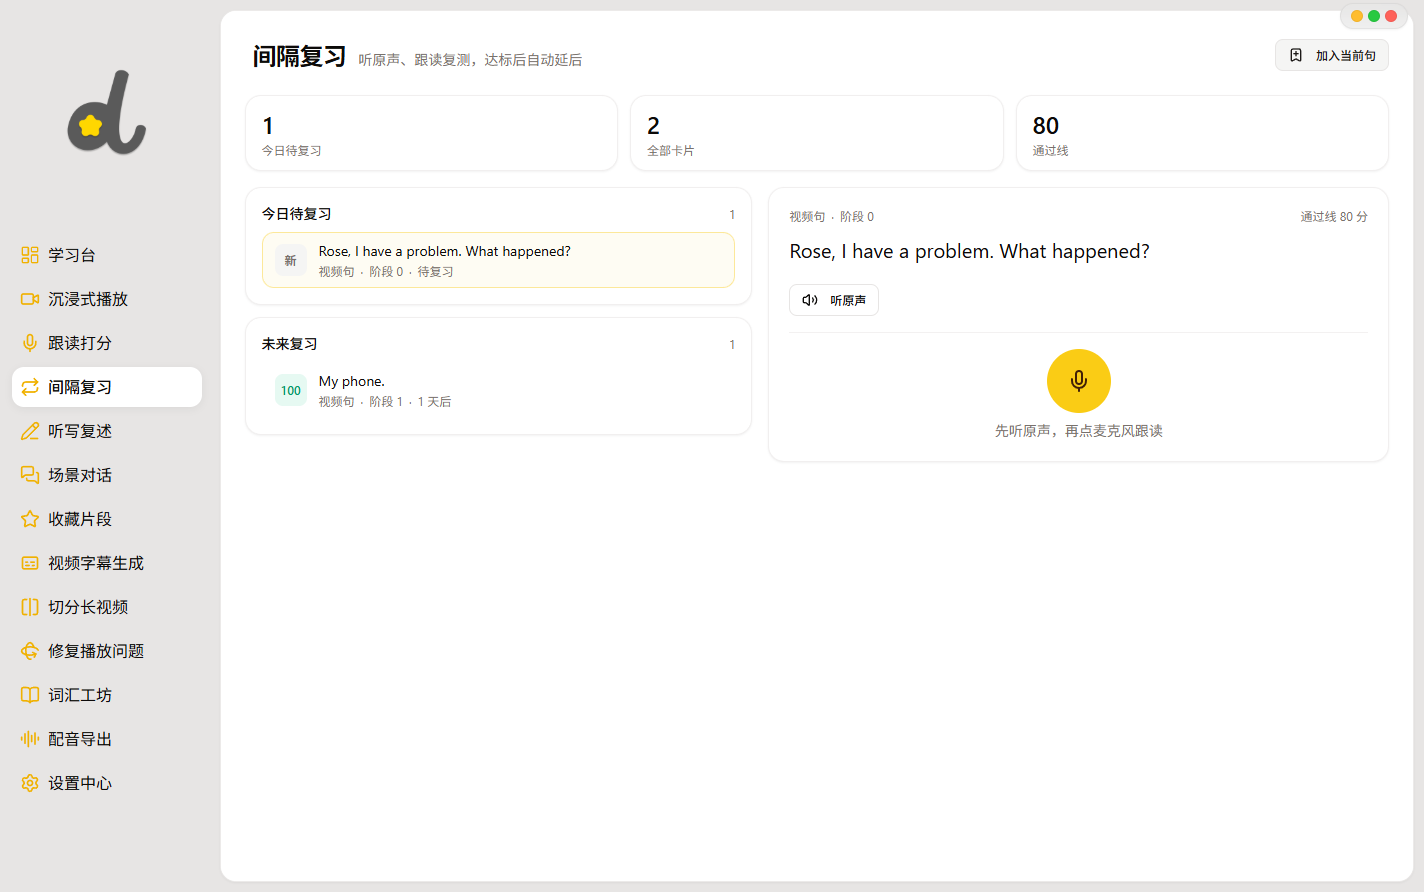
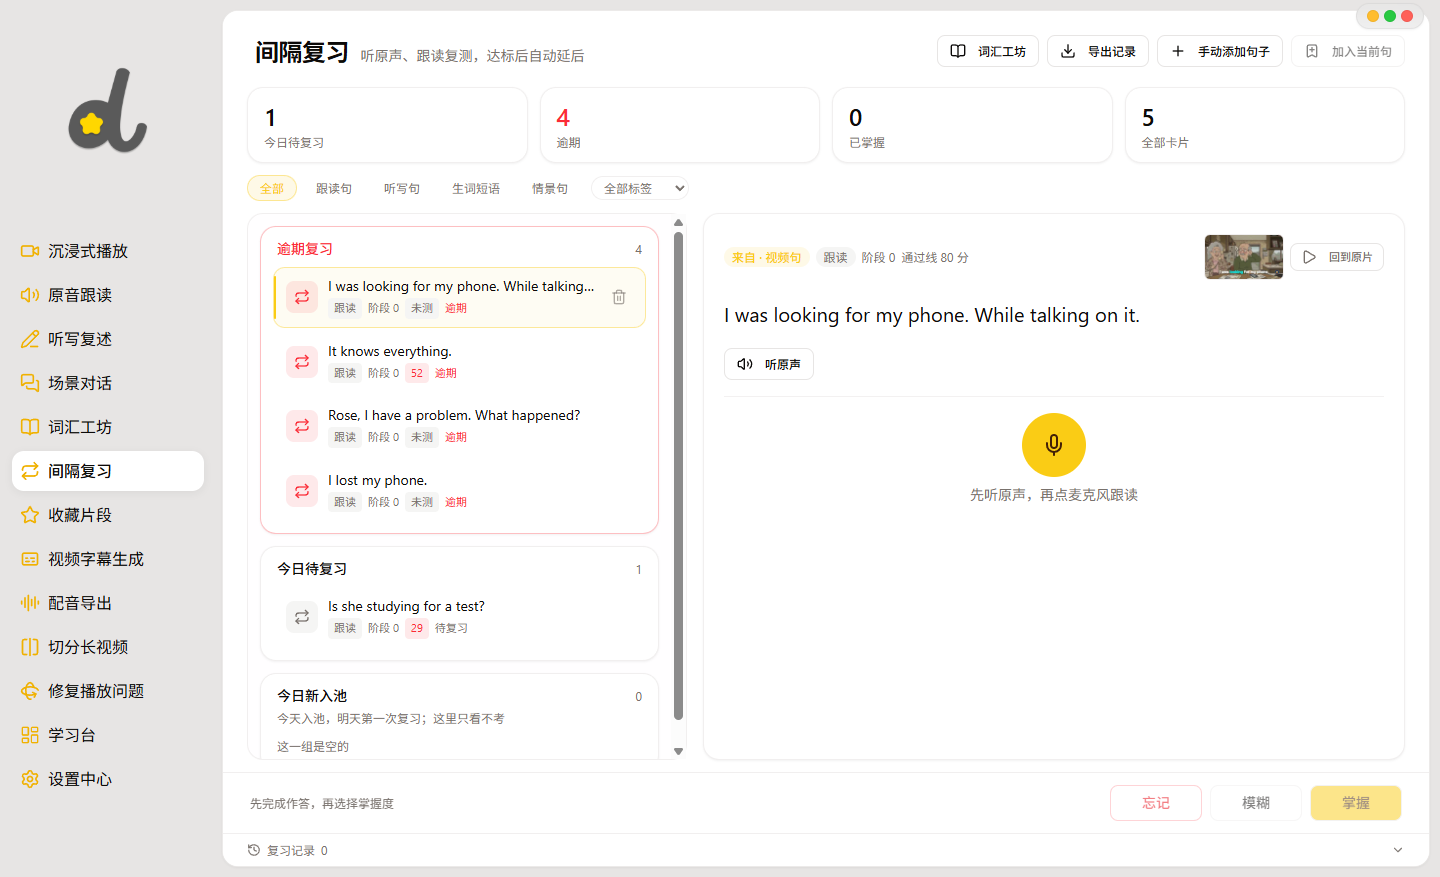
docs: refresh README and review screenshot for the new review system
- Document the five review forms, verdict bar, score cap, archive, calendar, CSV export and error-tag filter
- Update migration range and baseline tag
- Replace the review screenshot with the rebuilt page

diff --git a/README.md b/README.md
@@ -43,7 +43,7 @@ What changes per page is the **task** and therefore the **scoring rule**:
 | Page | Task | How it is judged |
 |---|---|---|
 | Shadowing | say the line after hearing it | word-by-word against the line |
-| Spaced review | say it again when due | same word-by-word score; pass moves the card forward |
+| Spaced review | review a saved sentence in the form its stage calls for | machine score first; the mastery button then decides direction |
 | Dictation | type what you hear | word-by-word against the line |
 | Retell | say it in your own words | keyword coverage, not exact wording |
 | Scene dialogue | say your part in a scripted conversation | per-line correction (wording / grammar / pronunciation), script followed line by line |
@@ -55,7 +55,9 @@ If two of these feel identical to you, that is useful feedback: it means the tas
 | Area | What it does |
 |---|---|
 | **Shadowing** | Record a line; local ASR + word alignment mark correct / wrong / missing / extra words. Honest word-level scoring — no fake pronunciation score. |
-| **Spaced Review** | Review means listening and shadowing again. The backend reads the real attempt score; a pass postpones the card (1/3/7/14/30 days), a fail returns it immediately. |
+| **Spaced Review** | A queue grouped into overdue / due today / new, with source, form, stage and last score. The right pane picks one of five review forms by card type and stage (shadowing, dictation, listening recall, vocabulary, scenario retell). A bottom bar with Forgot / Fuzzy / Known sets the direction; a machine score under 80 can never promote a card. Stage 5 plus Known marks it mastered. Every verdict is logged with error tags (pronunciation, spelling, missing, extra, fluency, structure). |
+| **Review archive** | Session view, history grouped by date, a 60-day calendar heatmap, and CSV export. Cards can be filtered by the last error tag for targeted practice. |
+| **Context kept** | Each card ships a video thumbnail, a “back to the source” jump that seeks to the sentence, and word-level feedback. Cards without an original sentence and audio are rejected at intake — no orphan word cards. |
 | **Dashboard** | Today’s practice (shadowing + dictation/retell + dialogue turns), streak, 7-day activity. |
 | **Dictation & Retell** | Word-by-word dictation check; retelling scored by keyword coverage, not exact wording. |
 | **Scene Dialogue** | Rehearses the clip's own dialogue. The whole subtitle track becomes a script rail; the AI speaks the next original line (it does not invent lines), the learner says their part, each line is spoken before the next appears, and every learner line gets a per-line correction card. Review at the end; good lines go into the same queue. |
@@ -95,7 +97,7 @@ Renderer (React features)
 - Front end: `src/fronted/features/<domain>/`
 - Back end: `controllers / services / infrastructure / ioc`
 - Contracts: `src/common/contracts/**`, `src/common/api/api-def.ts`
-- SQLite + Drizzle; migrations `0007`–`0012` add the learning tables.
+- SQLite + Drizzle; migrations `0007`–`0018` add the learning tables (SRS cards, review log, error tags).
 - Shared engines: tokenization, word alignment, sentence audio, recorded speech, recorder hook, local-model adapter.
 
 ## Quick start
@@ -133,7 +135,7 @@ corepack yarn package
 
 ## Project status
 
-- Baseline tag: `portfolio-p6`.
+- Baseline tag: `portfolio-p9n`.
 - All five learning stages are implemented and tested end-to-end on Windows.
 - The local 2B model can run offline but gives weaker scene relevance and feedback than cloud models; the UI labels the reviewing model.
 - Not tested on macOS/Linux in this fork; the upstream project supports them.
@@ -153,6 +155,9 @@ corepack yarn package
 这是 [DashPlayer](https://github.com/solidSpoon/DashPlayer) 的英语学习修改版，以“视频句”为唯一学习单元，串起跟读打分、间隔复习、听写复述、场景对话与学习台。
 
 - 五个页面共用一套引擎（取句 → 播/录 → 本地识别 → 逐词对齐 → 打分 → 进复习队列），区别在任务与判定规则；任务形态不够区分的地方，会合并而不是再开一个页面。
+- 间隔复习按来源归集：逾期 / 今日 / 新入池三分组，右侧按卡片类型切五类复习台（跟读、听写、听音回忆、词汇、情景复述），底部「忘记 / 模糊 / 掌握」定方向，机器分低于 80 不升级。
+- 每张卡带原片截图与「回到原片」定位；复习记录支持按日期回溯、日历视图与 CSV 导出，可按最近错误标签做专项复习。
+- 没有原句与原声的裸词在入池时直接拒绝，不占用每日新卡额度。
 - 场景对话照原片台词逐句演：AI 念剧本原句而不是自由发挥，一句读完才出下一句，每句下方给纠错卡。
 - 评分只做词级，不做假音素级；对话点评标注模型来源，不冒充考试分数。
 - 对话模型可切换内置本地模型（离线）或 OpenAI 兼容接口。
